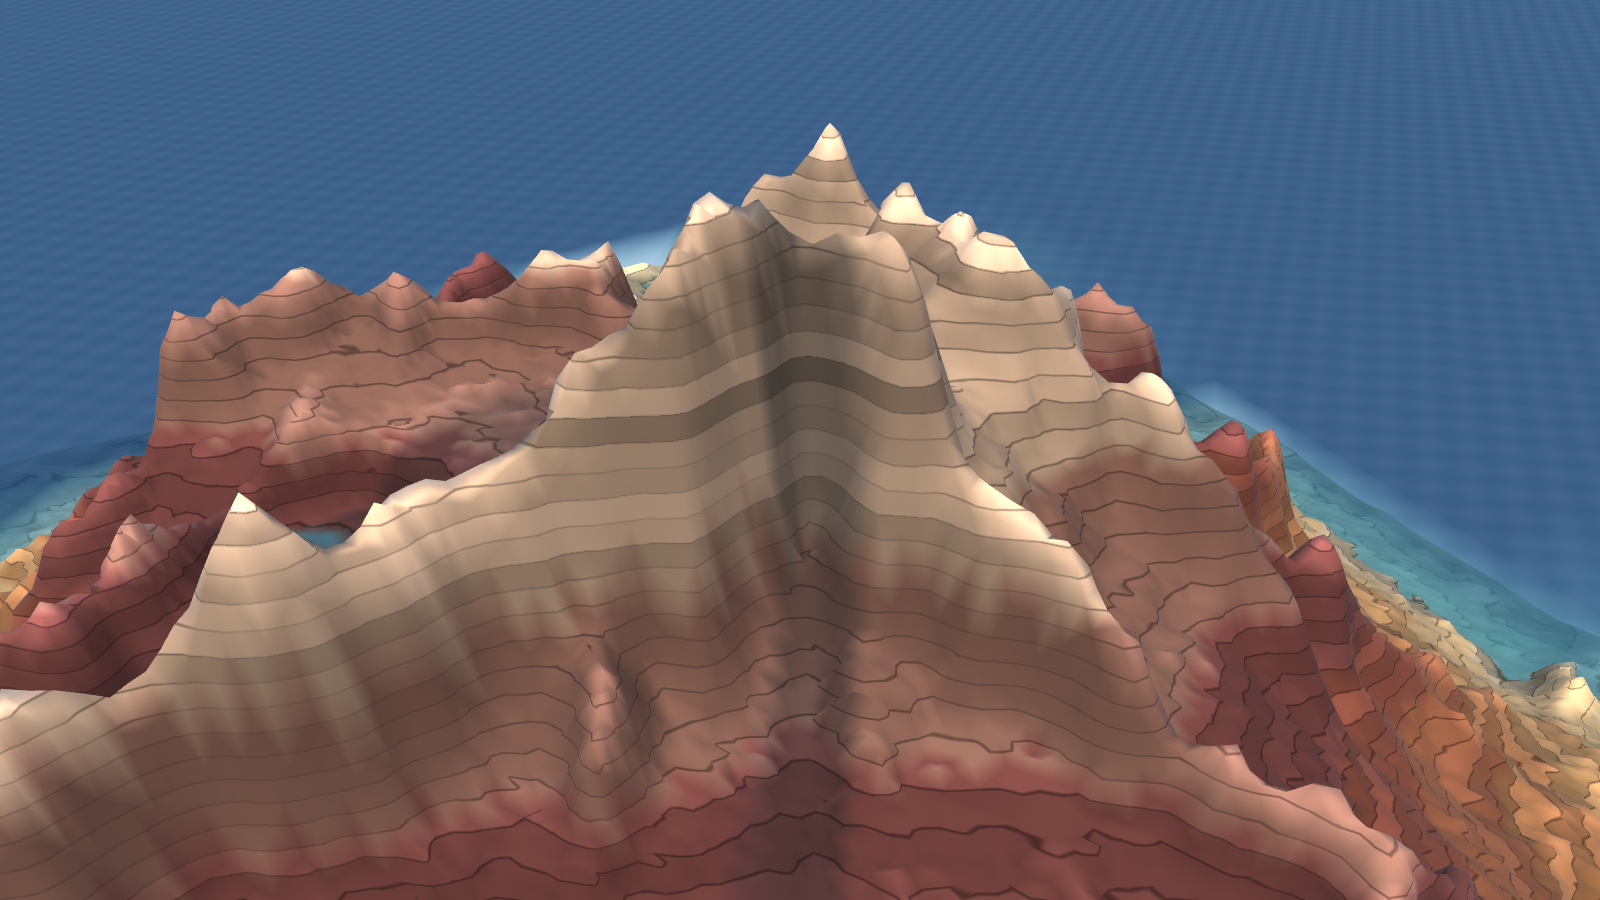
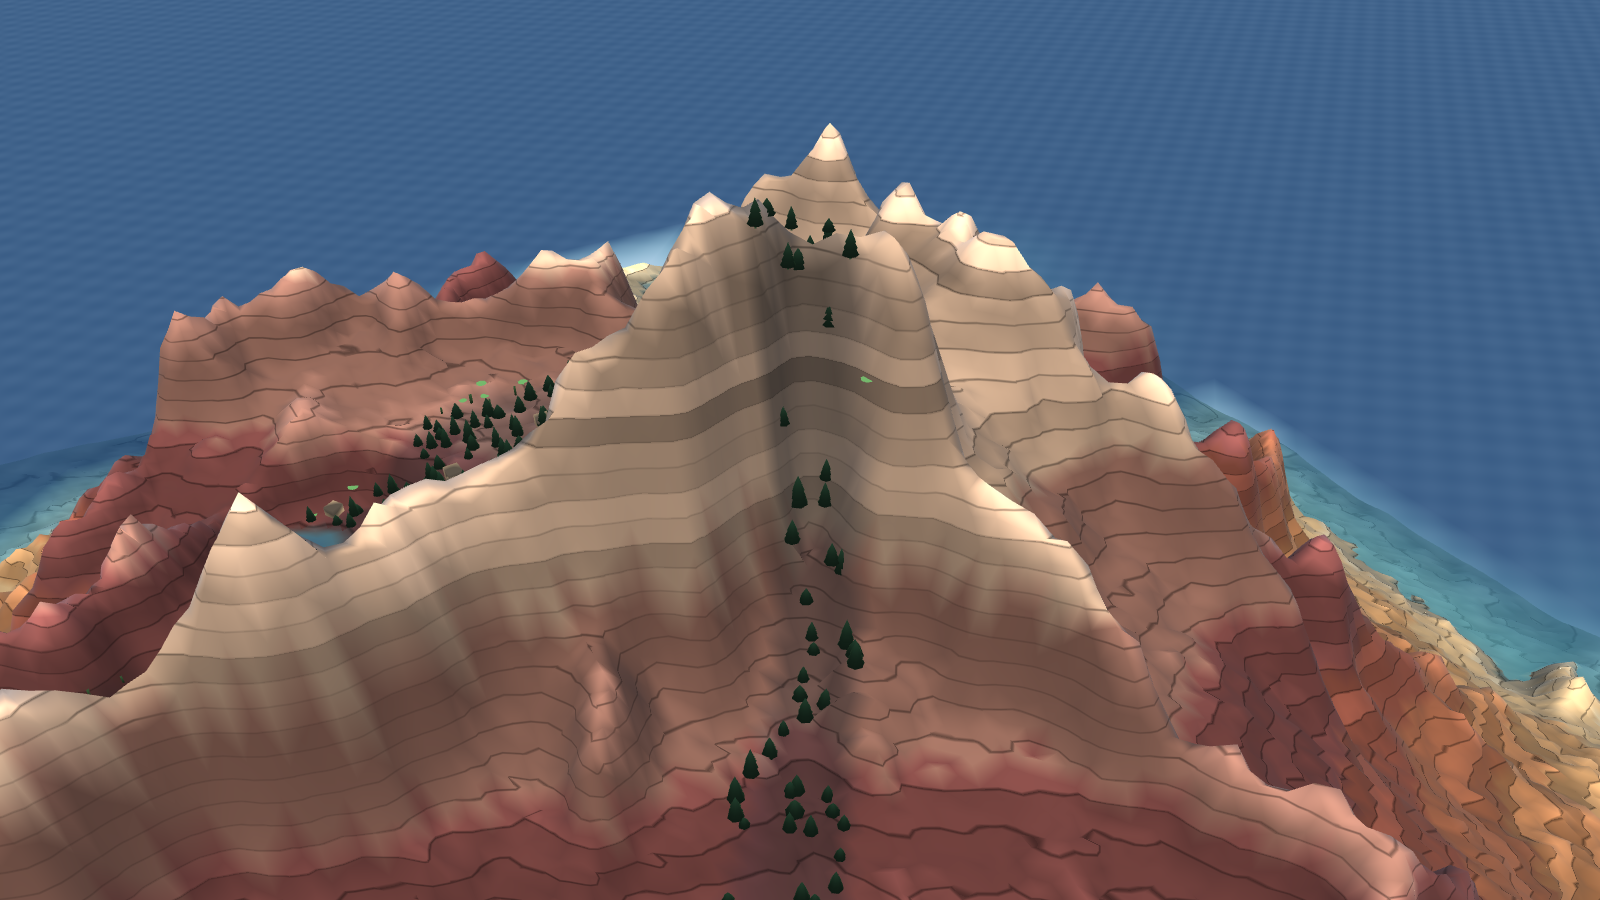
feat(render): make the life visible, and give a prop internal form
Two things, and the second only became findable because of the first.

RENDERABLE. Ecosystem props are issued with Graphics.DrawMesh from Update,
which never runs outside play mode, so the capture tool could render the rock
and the lakes and never the life on them - "no trees in the picture" meant
nothing at all. EcosystemSystem.BakeStaticRenderers combines each instance
list into one mesh with a real MeshRenderer, so the whole look is now
checkable from a terminal rather than only the terrain. The capture tool also
drives AdvanceAfterRun per run, because life grows out of moisture that only
exists because water went past.

The first render with life in it is the best argument for this game I have
seen: a green line of conifers traces the channel from the summit to the sea,
with clumps around every lake. The forest IS the record of where the player
routed water. That was always the design; it had never been visible.

It also produced a fact that contradicts docs/STATUS.md, which says life "has
never been observed reaching birds or deer": at 150 runs it reads "A village
settled at the delta", 3,239 living cells, 842 bushes, 77 reeds, 57 moss and
12 huts.

INTERNAL FORM. With the props finally on screen, they read as stamped paper
cutouts. Not for want of transform variance - scale, height and yaw are
already jittered per instance - but because one material per prop type means
one flat tone, and a flat tone has no form however you rotate it.
[…]

diff --git a/Assets/Scripts/World/PropMeshes.cs b/Assets/Scripts/World/PropMeshes.cs
@@ -24,6 +24,8 @@ namespace Rill.World
                 tris.Add(1 + (i + 1) % segments);
                 tris.Add(1 + i);
             }
+            // Flat, so no vertical gradient is possible; a flat disc of moss is fine as one
+            // tone because it is read as ground cover rather than as an object.
             return Build("Disc", verts, tris);
         }
 
@@ -34,7 +36,8 @@ namespace Rill.World
             var tris = new List<int>();
             AddQuad(verts, tris, new Vector3(-width, 0f, 0f), new Vector3(width, 0f, 0f), height);
             AddQuad(verts, tris, new Vector3(0f, 0f, -width), new Vector3(0f, 0f, width), height);
-            return Build("Blade", verts, tris);
+            // A blade is dark where it leaves the mud and pale at the tip.
+            return Build("Blade", verts, tris, 0.45f, 1.10f);
         }
 
         public static Mesh Cone(float radius, float height, int segments = 6)
@@ -52,7 +55,7 @@ namespace Rill.World
                 tris.Add(1 + i);
                 tris.Add(1 + (i + 1) % segments);
             }
-            return Build("Cone", verts, tris);
+            return Build("Cone", verts, tris, 0.50f, 1.05f);
         }
 
         /// <summary>
@@ -111,7 +114,9 @@ namespace Rill.World
                     tris.Add(ring + (i + 1) % segments);
                 }
             }
-            return Build("Conifer", verts, tris);
+            // Deep shade under the skirts, full colour at the crown: that contrast is the
+            // whole reason a conifer reads as a tree rather than a green triangle.
+            return Build("Conifer", verts, tris, 0.42f, 1.06f);
         }
 
         /// <summary>
@@ -146,7 +151,7 @@ namespace Rill.World
                 tris.Add(lower + n); tris.Add(upper + i); tris.Add(upper + n);
                 tris.Add(upper + i); tris.Add(top); tris.Add(upper + n);                     // cap
             }
-            return Build("Canopy", verts, tris);
+            return Build("Canopy", verts, tris, 0.50f, 1.08f);
         }
 
         public static Mesh Box(Vector3 size)
@@ -167,11 +172,7 @@ namespace Rill.World
                 2,3,7, 2,7,6,
                 3,0,4, 3,4,7
             };
-            m.vertices = v;
-            m.triangles = t;
-            m.RecalculateNormals();
-            m.RecalculateBounds();
-            return m;
+            return Build("Box", new List<Vector3>(v), new List<int>(t), 0.62f, 1.04f);
         }
 
         static void AddQuad(List<Vector3> verts, List<int> tris, Vector3 a, Vector3 b, float height)
@@ -187,11 +188,53 @@ namespace Rill.World
             tris.Add(i); tris.Add(i + 2); tris.Add(i + 3);
         }
 
+        /// <summary>
+        /// No baked shading. Note the equal pair: passing (0, 1) here looked like the obvious
+        /// default and was wrong for anything FLAT — a moss disc has no height span, so every
+        /// vertex lands at t = 0 and the whole prop came out black. It rendered exactly like that.
+        /// </summary>
         static Mesh Build(string name, List<Vector3> verts, List<int> tris)
+        {
+            return Build(name, verts, tris, 1f, 1f);
+        }
+
+        /// <summary>
+        /// Builds the mesh and bakes a vertical shading gradient into vertex colour: dark at the
+        /// base, full colour toward the tip.
+        ///
+        /// Every prop shares one material — that is what keeps them instanced and cheap — so
+        /// without this each one is a single flat tone with no internal form, and a stand of
+        /// conifers reads as stamped paper cutouts however much its transforms are varied. It was
+        /// rendering exactly like that. Colour is the only per-vertex channel available and the
+        /// prop shader spends nothing else on it.
+        /// </summary>
+        static Mesh Build(string name, List<Vector3> verts, List<int> tris, float shadeBase, float shadeTip)
         {
             var m = new Mesh { name = name };
             m.SetVertices(verts);
             m.SetTriangles(tris, 0);
+
+            // Always written, even when flat. A mesh with no colour array leaves the shader's
+            // COLOR semantic undefined, and the prop shader now multiplies by it.
+            float lo = float.MaxValue, hi = float.MinValue;
+            for (int i = 0; i < verts.Count; i++)
+            {
+                if (verts[i].y < lo) lo = verts[i].y;
+                if (verts[i].y > hi) hi = verts[i].y;
+            }
+            float span = hi - lo;
+            bool graded = shadeTip > shadeBase && span > 1e-3f;
+
+            var cols = new Color[verts.Count];
+            for (int i = 0; i < verts.Count; i++)
+            {
+                // Squared so the darkening hugs the base rather than greying the whole prop.
+                float t = graded ? (verts[i].y - lo) / span : 1f;
+                float k = graded ? Mathf.Lerp(shadeBase, shadeTip, t * t) : 1f;
+                cols[i] = new Color(k, k, k, 1f);
+            }
+            m.colors = cols;
+
             m.RecalculateNormals();
             m.RecalculateBounds();
             return m;

diff --git a/Assets/Editor/RillCapture.cs b/Assets/Editor/RillCapture.cs
@@ -5,6 +5,7 @@ using Rill.App;
 using Rill.Core;
 using Rill.Flow;
 using Rill.Render;
+using Rill.World;
 
 namespace Rill.EditorTools
 {
@@ -57,13 +58,23 @@ namespace Rill.EditorTools
 
             var config = new GameConfig();
             var world = RillWorld.Create(config, config.Seed, config.Biome);
-            Play(world, config, runs);
 
             var root = new GameObject("RillCapture");
             try
             {
                 var terrainMat = Load("Shaders/Strata");
                 var waterMat = Load("Shaders/PooledWater");
+                var propMat = Load("Shaders/Prop");
+
+                // The ecosystem has to be driven alongside the runs, not bolted on afterwards:
+                // life grows from moisture that only exists because water went past, one run at a
+                // time. Created before Play so AdvanceAfterRun can be called each run.
+                var ecoGo = new GameObject("Life");
+                ecoGo.transform.SetParent(root.transform, false);
+                var eco = ecoGo.AddComponent<EcosystemSystem>();
+                eco.Initialise(world, propMat);
+
+                Play(world, config, runs, eco);
 
                 var terrainGo = new GameObject("Terrain");
                 terrainGo.transform.SetParent(root.transform, false);
@@ -77,6 +88,11 @@ namespace Rill.EditorTools
                 var lakes = waterGo.AddComponent<PooledWaterMesh>();
                 lakes.Initialise(world.Field, waterMat);
                 lakes.BuildNow();
+
+                // Props are normally drawn with Graphics.DrawMesh from Update, which never runs
+                // here, so without this the pictures show bare rock and say nothing about whether
+                // the mountain looks alive.
+                eco.BakeStaticRenderers(ecoGo.transform);
 
                 BuildSea(root.transform, world, waterMat);
                 BuildSun(root.transform);
@@ -107,9 +123,10 @@ namespace Rill.EditorTools
             }
         }
 
-        static void Play(RillWorld world, GameConfig config, int runs)
+        static void Play(RillWorld world, GameConfig config, int runs, EcosystemSystem eco)
         {
             var sim = new FlowSimulation(world);
+            var arrivals = new System.Collections.Generic.List<string>();
             for (int run = 1; run <= runs; run++)
             {
                 world.BeginRun();
@@ -128,10 +145,13 @@ namespace Rill.EditorTools
 
                 world.Basins.Rebuild();
                 world.EndRun(sim.Ending, sim.Elapsed, sim.Distance, sim.TopSpeed, sim.WaterToSea);
+                if (eco != null) eco.AdvanceAfterRun(arrivals);
                 world.ApplyBetweenRunDrift();
             }
-            Debug.Log(string.Format("[RILL] capture: played {0} runs, {1:n0} m³ moved, terrain {2:0.00} m to {3:0.00} m vs virgin",
-                runs, world.LifetimeSediment, MinDelta(world), MaxDelta(world)));
+            Debug.Log(string.Format("[RILL] capture: played {0} runs, {1:n0} m³ moved, terrain {2:0.00} m to {3:0.00} m vs virgin, life {4} on {5:n0} cells",
+                runs, world.LifetimeSediment, MinDelta(world), MaxDelta(world),
+                eco != null ? EcosystemSystem.Describe(eco.HighestTier) : "n/a",
+                eco != null ? eco.LivingCells : 0));
         }
 
         static Vector3 DeepestCutWorld(RillWorld w)

diff --git a/Assets/Scripts/World/EcosystemSystem.cs b/Assets/Scripts/World/EcosystemSystem.cs
@@ -243,6 +243,50 @@ namespace Rill.World
             if (highest > _highestSeen) _highestSeen = highest;
         }
 
+        /// <summary>
+        /// Bakes the current instance lists into real MeshRenderers under <paramref name="parent"/>.
+        ///
+        /// Life is normally issued with Graphics.DrawMesh from Update, which never runs outside
+        /// play mode — so the offscreen capture tool could render the terrain and the lakes and
+        /// never the life on them, and "no trees in the picture" meant nothing at all. This is the
+        /// seam that makes the whole look checkable from a terminal instead of only the rock.
+        ///
+        /// One combined mesh per type rather than thousands of GameObjects: the props are a handful
+        /// of triangles each, so 2,000 of them still fits comfortably in a 32-bit index buffer.
+        /// </summary>
+        public void BakeStaticRenderers(Transform parent)
+        {
+            Bake(parent, "Moss", _mossMesh, _mossMat, _moss);
+            Bake(parent, "Reeds", _reedMesh, _reedMat, _reeds);
+            Bake(parent, "Bushes", _bushMesh, _bushMat, _bushes);
+            Bake(parent, "Huts", _hutMesh, _hutMat, _huts);
+        }
+
+        static void Bake(Transform parent, string name, Mesh mesh, Material mat, List<Matrix4x4> xforms)
+        {
+            if (mesh == null || xforms.Count == 0) return;
+
+            var combines = new CombineInstance[xforms.Count];
+            for (int i = 0; i < xforms.Count; i++)
+            {
+                combines[i].mesh = mesh;
+                combines[i].transform = xforms[i];
+            }
+
+            var combined = new Mesh { name = name };
+            combined.indexFormat = UnityEngine.Rendering.IndexFormat.UInt32;
+            combined.CombineMeshes(combines, true, true);
+
+            var go = new GameObject(name);
+            go.transform.SetParent(parent, false);
+            go.AddComponent<MeshFilter>().sharedMesh = combined;
+            var mr = go.AddComponent<MeshRenderer>();
+            mr.sharedMaterial = mat;
+            mr.shadowCastingMode = UnityEngine.Rendering.ShadowCastingMode.Off;
+            mr.receiveShadows = false;
+            Debug.Log(string.Format("[RILL] baked {0} x{1}", name, xforms.Count));
+        }
+
         void Update()
         {
             if (_mossMesh == null) return;

diff --git a/tools/unity-stub/UnityStub.cs b/tools/unity-stub/UnityStub.cs
@@ -252,6 +252,13 @@ namespace UnityEngine
         public void Render() { }
     }
 
+    public struct CombineInstance
+    {
+        public Mesh mesh;
+        public Matrix4x4 transform;
+        public int subMeshIndex;
+    }
+
     public struct Rect
     {
         public float x, y, width, height;
@@ -334,6 +341,7 @@ namespace UnityEngine
         public void SetUVs(int ch, List<Vector2> uv) { }
         public void RecalculateNormals() { }
         public void RecalculateBounds() { }
+        public void CombineMeshes(CombineInstance[] combine, bool mergeSubMeshes, bool useMatrices) { }
     }
 
     public class Renderer : Component
